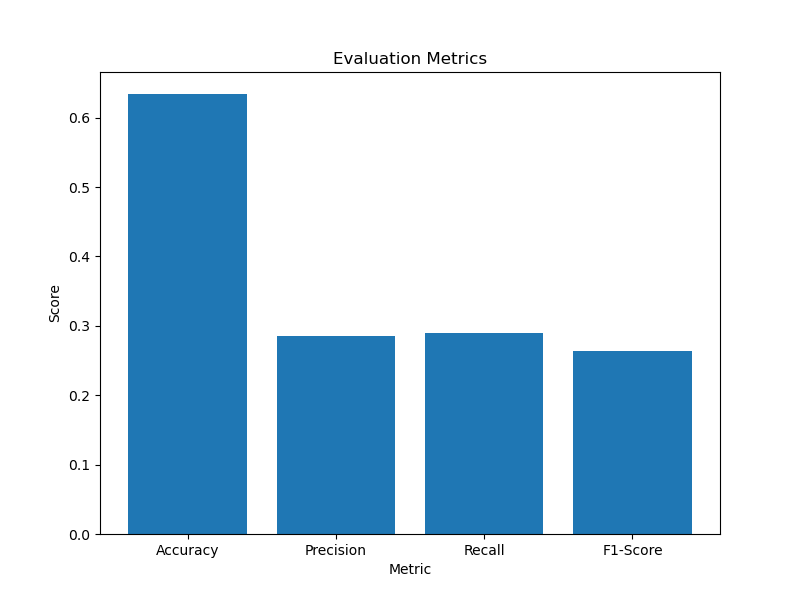
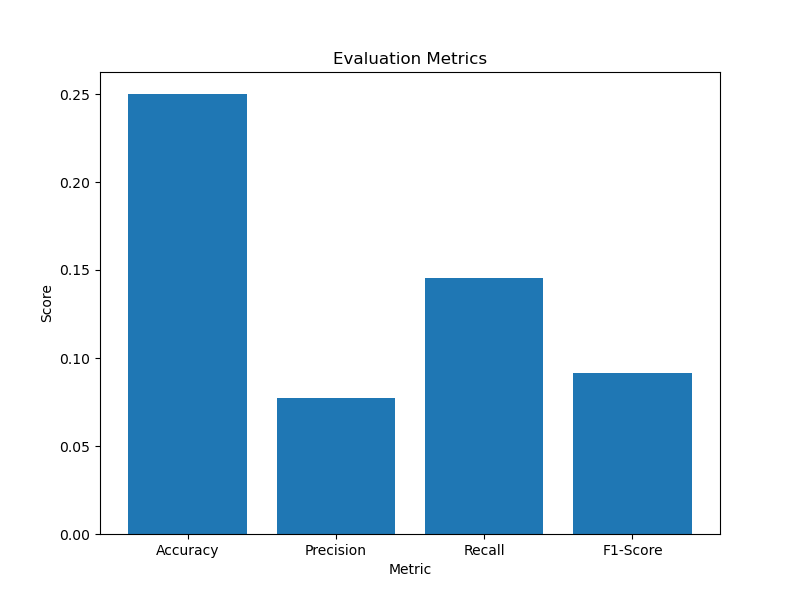
first complete run on DAS5

diff --git a/results/aspect_classification/TinyBERT_General_4L_312D_classification_report.tex b/results/aspect_classification/TinyBERT_General_4L_312D_classification_report.tex
@@ -2,6 +2,6 @@
 \toprule
  Accuracy &  Precision &   Recall &  F1-Score \\
 \midrule
- 0.634146 &   0.285256 & 0.290385 &  0.263736 \\
+     0.25 &   0.077239 & 0.145721 &  0.091629 \\
 \bottomrule
 \end{tabular}
